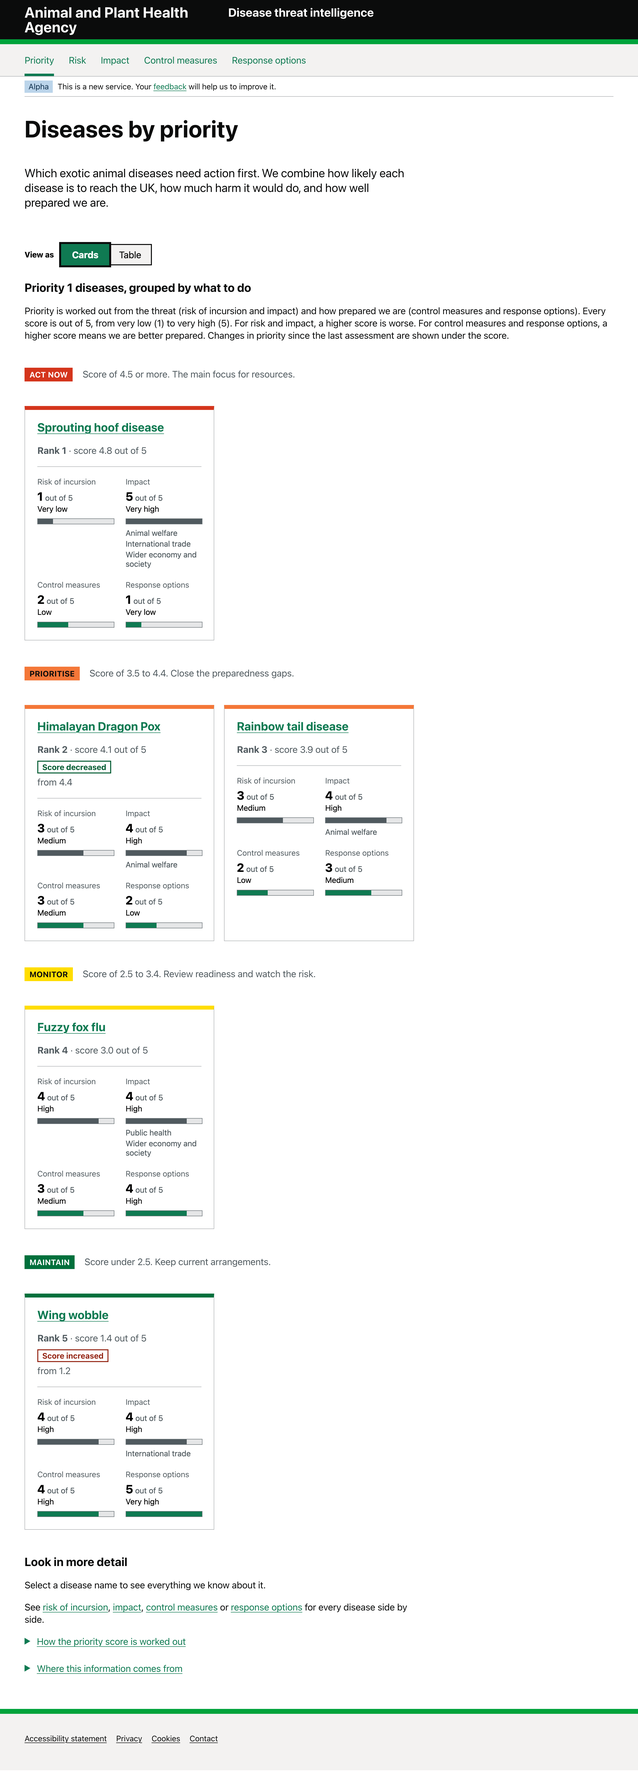
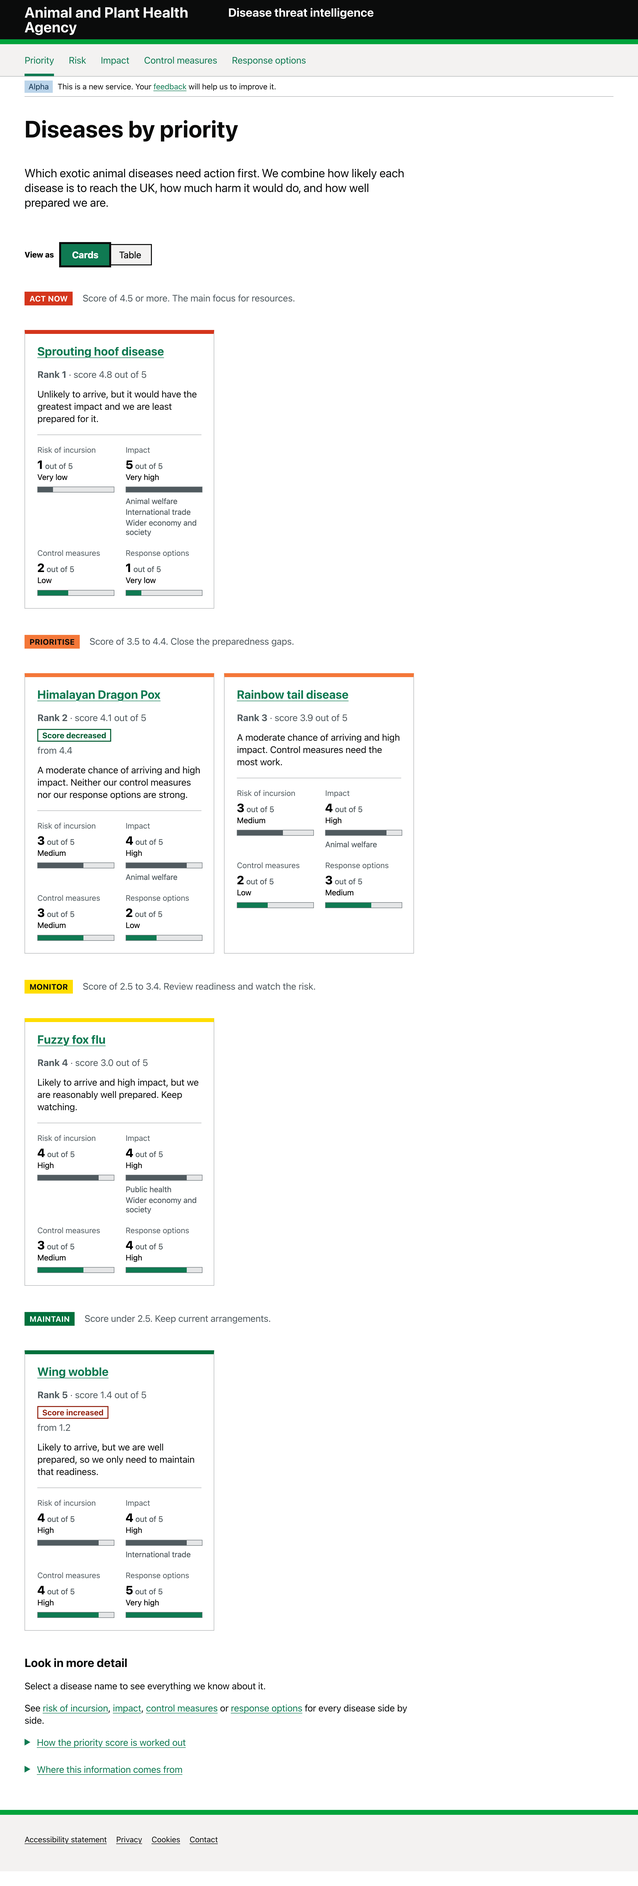
Reinstate card reasons; remove the scores explainer above the list
Only the broad top-of-page summary stays removed. Removes the paragraph that repeated the band key, and updates the design notes, test plan and options page.

Changed region(s): [[0.0, 0.0, 1.0, 0.9677]]

diff --git a/app/views/docs/priority-view-test-plan.html b/app/views/docs/priority-view-test-plan.html
@@ -28,8 +28,8 @@
     </ol>
     <p class="govuk-body">The second job is the main one. Spend roughly a third of each session on it.</p>
     <h2 class="govuk-heading-l">What we are testing</h2>
-    <p class="govuk-body">The page shows five fictional priority 1 diseases. Each disease shows priority (band, rank, score out of 5), then threat (risk of incursion, impact) and preparedness (control measures, response options), each scored out of 5 and labelled very low, low, medium, high or very high. There is no summary at the top and no written reason on each disease, so people read the answer from the bands, ranks and scores. Below are the band key, how the score works and where the information comes from. The source is deliberately not repeated at the top, so T6 tests whether people find it at the bottom.</p>
-    <p class="govuk-body"><strong>In scope:</strong> reading and comparing, the priority band and score, the four layers, sorting, source and trust.
+    <p class="govuk-body">The page shows five fictional priority 1 diseases. Each disease shows priority (band, rank, score out of 5), then threat (risk of incursion, impact) and preparedness (control measures, response options), each scored out of 5 and labelled very low, low, medium, high or very high. There is no summary at the top of the page. In the cards view each disease has a one-line reason. Below are the band key, how the score works and where the information comes from. The source is deliberately not repeated at the top, so T6 tests whether people find it at the bottom.</p>
+    <p class="govuk-body"><strong>In scope:</strong> reading and comparing, the priority band and score, the four layers, the reason on each card, sorting, source and trust.
     <strong>Out of scope:</strong> the disease page, the layer pages and how users route to them (the concept test). Clicks on those links land on a "This page is not part of the test" page. <strong>Record every one of them as a first click.</strong> They show where people expect to go next, which feeds the routing decision.
     <strong>Not being tested:</strong> whether the scores are right. All five scores are illustrative and out of 5, with no formula shown, so there is less to challenge. If SMEs question how a score is made, capture it, but don't debate it. See "Risks".</p>
     <p class="govuk-body"><strong>What has changed:</strong> the priority view shows change in <strong>priority only</strong>. Changes in risk, impact, control measures and response options belong on their own pages, which are not designed yet. The priority view shows change through an outlined tag ("Score increased", "Score decreased") with "from 4.4" under the score for diseases that changed. Unchanged diseases show nothing. There is no summary line, so nothing on the page says that no disease changed rank or band.</p>
@@ -38,9 +38,9 @@
     <h2 class="govuk-heading-l">Design options</h2>
     <p class="govuk-body">Three versions are designed as prototypes with the same data and wording. See <a class="govuk-link" href="/public/design/priority-view/options.html">priority view options</a>. An earlier matrix with diseases across the top was dropped: it isn't how people think about the problem and it pushed the content down.
     - <strong>A: ranked table</strong> (<a class="govuk-link" href="/public/design/priority-view/index.html">open option A</a>). Best for comparing one measure across diseases.
-    - <strong>B: grouped by action</strong> (<a class="govuk-link" href="/public/design/priority-view/option-b.html">open option B</a>). Best for "what do I do?", with the diseases grouped by band.
+    - <strong>B: grouped by action</strong> (<a class="govuk-link" href="/public/design/priority-view/option-b.html">open option B</a>). Best for "what do I do?", with a one-line reason for each disease.
     - <strong>C: table or cards</strong> (<a class="govuk-link" href="/public/design/priority-view/option-c.html">open option C</a>). One page with a "View as" switch between A and B. The choice is kept in the address (<code>?view=cards</code>), sorting is kept when switching, and it starts on cards on small screens.</p>
-    <p class="govuk-body">The page has no summary and no written reasons in all three. The table has one header row, a light tint on the sorted column, and links that don't change colour once visited. Test the group labels in the "What we watch for" section.</p>
+    <p class="govuk-body">The page has no summary at the top in any of the three, and no paragraph explaining the scores above the list. The table has one header row, a light tint on the sorted column, and links that don't change colour once visited. Test the group labels in the "What we watch for" section.</p>
     <p class="govuk-body"><strong>How to run them (recommended): use C for everyone.</strong> It contains A and B, so all 6 participants see both. Start half on the table and half on cards. Watch whether they switch, when and why, then ask which they prefer. The cost is that C can't isolate A against B, because the first view colours what people do next. If the team needs a clean comparison, run A and B as separate pages, alternating across participants, and show the other for about 2 minutes at the end. Treat the preference answers as evidence, not a vote.
     <strong>Extra things to watch:</strong> in C, which view do they land on, do they find the switch without help, and do they switch for a reason (comparing a measure, briefing someone)? If one view is rarely used, drop the other. In B, do people open a card or just read the band? In A, is sorting found, and does the tint help them see which column is sorted? Sorting only applies to the table.
     <strong>Width:</strong> A uses a 1,200px container because six columns need about 1,000px. B uses the standard 960px. Test on a laptop first. A scrolls sideways below about 1,050px.</p>
@@ -197,7 +197,7 @@
     <tr class="govuk-table__row">
     <td class="govuk-table__cell">T7</td>
     <td class="govuk-table__cell">"You've got two minutes with your director. What would you say?"</td>
-    <td class="govuk-table__cell">A short, correct summary in their own words, built from the bands, ranks and scores. Record what they leave out and whether they look for a written summary</td>
+    <td class="govuk-table__cell">A short, correct summary. Reuses the card reasons, or builds their own from the bands, ranks and scores. Record which, and whether they look for a summary at the top</td>
     <td class="govuk-table__cell">RQ1, UN8</td>
     </tr>
     <tr class="govuk-table__row">
@@ -273,7 +273,7 @@
     - "What does a score of 4.1 out of 5 mean?" Do they open "How the priority score is worked out"? Do they find it helpful or too much?
     - "What is the difference between 'control measures' and 'response options'?"
     - "Is anything missing that you'd need before you trusted the order?"
-    - "Would a short written summary help you? What would it need to say for your role?" (Ask last, so it doesn't prompt them earlier.)</p>
+    - "Would a short summary at the top of the page help you? What would it need to say for your role?" (Ask last, so it doesn't prompt them earlier.)</p>
     <h2 class="govuk-heading-l">Discovery: understanding what people want from risk</h2>
     <p class="govuk-body">Use these after the tasks. Probe with "why?" and "how would you use that?".</p>
     <ol class="govuk-list govuk-list--number">
@@ -314,9 +314,9 @@
     | H1 | One ranked table answers "which disease first?" faster than the current way of working | T1 in under a minute without help |
     | H2 | Band label plus rank plus score is clear without colour | Correct answers from users who don't mention colour |
     | H3 | Risk and impact are read as separate things | T4 is answered from the impact column, not the risk column |
-    | H4 | People can build their own short summary from the bands, ranks and scores, so the page needs no written summary | T7 is answered correctly and quickly, and nobody asks for a summary |
+    | H4 | A one-line reason on each card is enough, so the page needs no summary at the top | T7 is answered correctly and quickly, and nobody asks for a summary at the top |
     | H5 | A source in the details at the bottom is enough for trust | T6 found without help, and users don't ask for more |
-    | H6 | The preparedness scale (high is good) causes confusion beside risk (high is bad) | Errors or hesitation on the probe |
+    | H6 | The preparedness scale (high is good) causes confusion beside risk (high is bad). The paragraph that explained this above the list was removed | Errors or hesitation on the probe |
     | H7 | Users want more than a snapshot, especially change over time | The card sort puts change, reasons and history in "must have" |
     | H10 | A text tag with "from 4.4" under the score shows a change in priority clearly, without arrows or colour alone | T11 answered quickly and correctly. Nobody asks what the tag means |
     | H11 | A change in score can look more important than it is. A tag alone could over-state it | T12: people say it is still Prioritise, rather than asking for action |
@@ -482,7 +482,7 @@
     <h2 class="govuk-heading-l">Open decisions for the team</h2>
     <ol class="govuk-list govuk-list--number">
     <li><strong>Brand mode.</strong> The prototype uses Defra mode (system font, green links, text header) rather than GOV.UK mode (GDS Transport, crown header). The brief says GOV.UK only and the page title pattern ends "– GOV.UK". Which do we want in front of users?</li>
-    <li><strong>Does anyone need a written summary?</strong> We removed the summary and the one-line reasons because one summary can't be both short and right for everyone. Listen for who asks for one, what role they have and what they would want it to say. If they do, it may need to be per role.</li>
+    <li><strong>Does anyone also need a summary at the top of the page?</strong> We removed it because it had to cover every section, so it was too long, and one summary can't be both short and right for everyone. The card reasons stay. Listen for who asks for a top summary, what role they have and what they would want it to say. If they do, it may need to be per role. Also ask who would write the card reasons, and how often. The prototype shows them as written copy.</li>
     <li><strong>"Preparedness" or "vulnerability".</strong> The board says "vulnerability (preparedness)". The prototype says "Preparedness". Do we test both?</li>
     <li><strong>Change is shown for priority only</strong>, as tags under the score (changed diseases only). Do we also show "No change" on every row? Showing only changes keeps the table calmer. The risk is that people can't tell "no change" from "not assessed". Risk, impact, control measures and response options changes, with reasons, belong on their own pages. Those pages aren't designed yet, so T12 will show where people expect to find the cause.</li>
     <li><strong>Real or fictional disease names.</strong> The prototype uses fictional names, as the brief decided. SMEs may find it harder to judge plausibility.</li>

diff --git a/app/assets/design/priority-view/option-c.html b/app/assets/design/priority-view/option-c.html
@@ -70,12 +70,11 @@
 
     <!-- ===== Table view ===== -->
     <div id="view-table">
-      <p class="app-view-label">Option C, table view</p>      <h2 class="govuk-heading-m" id="table-heading">Priority 1 diseases, ranked 1 to 5</h2>
-      <p class="govuk-body" id="table-desc">Priority is worked out from the threat (risk of incursion and impact) and how prepared we are (control measures and response options). Every score is out of 5, from very low (1) to very high (5). For risk and impact, a higher score is worse. For control measures and response options, a higher score means we are better prepared. Changes in priority since the last assessment are shown under the score.</p>
+      <p class="app-view-label">Option C, table view</p>      <h2 class="govuk-visually-hidden" id="table-heading">Priority 1 diseases, ranked 1 to 5</h2>
       <p class="govuk-hint app-sort-note">Sorting is not available on small screens. Diseases are shown in priority order.</p>
 
       <div class="app-scroll" tabindex="0" role="region" aria-label="Priority table, scrolls sideways on narrow screens">
-      <table class="govuk-table app-table app-table--rows" id="priority-table" aria-labelledby="table-heading" aria-describedby="table-desc">
+      <table class="govuk-table app-table app-table--rows" id="priority-table" aria-labelledby="table-heading">
         <thead class="govuk-table__head">
           <tr class="govuk-table__row">
             <th scope="col" class="govuk-table__header" aria-sort="none" data-key="disease" data-first="ascending"><a class="govuk-link" href="?sort=disease&amp;order=ascending">Disease</a></th>
@@ -165,8 +164,7 @@
 
     <!-- ===== Cards view ===== -->
     <div id="view-cards" hidden>
-      <p class="app-view-label">Option C, cards view</p>      <h2 class="govuk-heading-m" id="cards-heading">Priority 1 diseases, grouped by what to do</h2>
-      <p class="govuk-body" id="cards-desc">Priority is worked out from the threat (risk of incursion and impact) and how prepared we are (control measures and response options). Every score is out of 5, from very low (1) to very high (5). For risk and impact, a higher score is worse. For control measures and response options, a higher score means we are better prepared. Changes in priority since the last assessment are shown under the score.</p>
+      <p class="app-view-label">Option C, cards view</p>      <h2 class="govuk-visually-hidden" id="cards-heading">Priority 1 diseases, grouped by what to do</h2>
 
       <section class="app-band-section" aria-labelledby="band-act">
         <div class="app-band-section__head">
@@ -177,6 +175,7 @@
           <li class="app-card app-card--act">
             <h4 class="govuk-heading-m"><a class="govuk-link" href="not-in-test.html?page=disease&amp;disease=sprouting-hoof-disease">Sprouting hoof disease</a></h4>
             <p class="govuk-body app-card__meta"><span class="app-rank">Rank 1</span> · score 4.8 out of 5</p>
+            <p class="govuk-body app-card__why">Unlikely to arrive, but it would have the greatest impact and we are least prepared for it.</p>
             <dl>
               <div><dt class="govuk-body-s">Risk of incursion</dt><dd><span class="app-score">1<small> out of 5</small></span><span class="app-bar app-bar--threat" aria-hidden="true"><span style="width:20%"></span></span></dd></div>
               <div><dt class="govuk-body-s">Impact</dt><dd><span class="app-score">5<small> out of 5</small></span><span class="app-bar app-bar--threat" aria-hidden="true"><span style="width:100%"></span></span><ul class="app-areas"><li>Animal welfare</li><li>International trade</li><li>Wider economy and society</li></ul></dd></div>
@@ -196,6 +195,7 @@
           <li class="app-card app-card--prioritise">
             <h4 class="govuk-heading-m"><a class="govuk-link" href="not-in-test.html?page=disease&amp;disease=himalayan-dragon-pox">Himalayan Dragon Pox</a></h4>
             <p class="govuk-body app-card__meta"><span class="app-rank">Rank 2</span> · score 4.1 out of 5<span class="app-change"><strong class="app-change__tag app-change__tag--down">Score decreased</strong><span class="app-change__from">from 4.4</span></span></p>
+            <p class="govuk-body app-card__why">A moderate chance of arriving and high impact. Neither our control measures nor our response options are strong.</p>
             <dl>
               <div><dt class="govuk-body-s">Risk of incursion</dt><dd><span class="app-score">3<small> out of 5</small></span><span class="app-bar app-bar--threat" aria-hidden="true"><span style="width:60%"></span></span></dd></div>
               <div><dt class="govuk-body-s">Impact</dt><dd><span class="app-score">4<small> out of 5</small></span><span class="app-bar app-bar--threat" aria-hidden="true"><span style="width:80%"></span></span><ul class="app-areas"><li>Animal welfare</li></ul></dd></div>
@@ -206,6 +206,7 @@
           <li class="app-card app-card--prioritise">
             <h4 class="govuk-heading-m"><a class="govuk-link" href="not-in-test.html?page=disease&amp;disease=rainbow-tail-disease">Rainbow tail disease</a></h4>
             <p class="govuk-body app-card__meta"><span class="app-rank">Rank 3</span> · score 3.9 out of 5</p>
+            <p class="govuk-body app-card__why">A moderate chance of arriving and high impact. Control measures need the most work.</p>
             <dl>
               <div><dt class="govuk-body-s">Risk of incursion</dt><dd><span class="app-score">3<small> out of 5</small></span><span class="app-bar app-bar--threat" aria-hidden="true"><span style="width:60%"></span></span></dd></div>
               <div><dt class="govuk-body-s">Impact</dt><dd><span class="app-score">4<small> out of 5</small></span><span class="app-bar app-bar--threat" aria-hidden="true"><span style="width:80%"></span></span><ul class="app-areas"><li>Animal welfare</li></ul></dd></div>
@@ -225,6 +226,7 @@
           <li class="app-card app-card--monitor">
             <h4 class="govuk-heading-m"><a class="govuk-link" href="not-in-test.html?page=disease&amp;disease=fuzzy-fox-flu">Fuzzy fox flu</a></h4>
             <p class="govuk-body app-card__meta"><span class="app-rank">Rank 4</span> · score 3.0 out of 5</p>
+            <p class="govuk-body app-card__why">Likely to arrive and high impact, but we are reasonably well prepared. Keep watching.</p>
             <dl>
               <div><dt class="govuk-body-s">Risk of incursion</dt><dd><span class="app-score">4<small> out of 5</small></span><span class="app-bar app-bar--threat" aria-hidden="true"><span style="width:80%"></span></span></dd></div>
               <div><dt class="govuk-body-s">Impact</dt><dd><span class="app-score">4<small> out of 5</small></span><span class="app-bar app-bar--threat" aria-hidden="true"><span style="width:80%"></span></span><ul class="app-areas"><li>Public health</li><li>Wider economy and society</li></ul></dd></div>
@@ -244,6 +246,7 @@
           <li class="app-card app-card--maintain">
             <h4 class="govuk-heading-m"><a class="govuk-link" href="not-in-test.html?page=disease&amp;disease=wing-wobble">Wing wobble</a></h4>
             <p class="govuk-body app-card__meta"><span class="app-rank">Rank 5</span> · score 1.4 out of 5<span class="app-change"><strong class="app-change__tag app-change__tag--up">Score increased</strong><span class="app-change__from">from 1.2</span></span></p>
+            <p class="govuk-body app-card__why">Likely to arrive, but we are well prepared, so we only need to maintain that readiness.</p>
             <dl>
               <div><dt class="govuk-body-s">Risk of incursion</dt><dd><span class="app-score">4<small> out of 5</small></span><span class="app-bar app-bar--threat" aria-hidden="true"><span style="width:80%"></span></span></dd></div>
               <div><dt class="govuk-body-s">Impact</dt><dd><span class="app-score">4<small> out of 5</small></span><span class="app-bar app-bar--threat" aria-hidden="true"><span style="width:80%"></span></span><ul class="app-areas"><li>International trade</li></ul></dd></div>

diff --git a/app/assets/design/priority-view/option-b.html b/app/assets/design/priority-view/option-b.html
@@ -55,7 +55,6 @@
       <div class="govuk-grid-column-two-thirds">
         <h1 class="govuk-heading-xl">Diseases by priority</h1>
         <p class="govuk-body-l">Which exotic animal diseases need action first. We combine how likely each disease is to reach the UK, how much harm it would do, and how well prepared we are.</p>
-        <p class="govuk-body app-scope">Every score is out of 5, from very low (1) to very high (5). For risk and impact, a higher score is worse. For control measures and response options, a higher score means we are better prepared.</p>
 
       </div>
     </div>
@@ -69,6 +68,7 @@
         <li class="app-card app-card--act">
           <h3 class="govuk-heading-m"><a class="govuk-link" href="not-in-test.html?page=disease&amp;disease=sprouting-hoof-disease">Sprouting hoof disease</a></h3>
           <p class="govuk-body app-card__meta"><span class="app-rank">Rank 1</span> · score 4.8 out of 5</p>
+          <p class="govuk-body app-card__why">Unlikely to arrive, but it would have the greatest impact and we are least prepared for it.</p>
           <dl>
             <div><dt class="govuk-body-s">Risk of incursion</dt><dd><span class="app-score">1<small> out of 5</small></span><span class="app-bar app-bar--threat" aria-hidden="true"><span style="width:20%"></span></span></dd></div>
             <div><dt class="govuk-body-s">Impact</dt><dd><span class="app-score">5<small> out of 5</small></span><span class="app-bar app-bar--threat" aria-hidden="true"><span style="width:100%"></span></span><ul class="app-areas"><li>Animal welfare</li><li>International trade</li><li>Wider economy and society</li></ul></dd></div>
@@ -88,6 +88,7 @@
         <li class="app-card app-card--prioritise">
           <h3 class="govuk-heading-m"><a class="govuk-link" href="not-in-test.html?page=disease&amp;disease=himalayan-dragon-pox">Himalayan Dragon Pox</a></h3>
           <p class="govuk-body app-card__meta"><span class="app-rank">Rank 2</span> · score 4.1 out of 5<span class="app-change"><strong class="app-change__tag app-change__tag--down">Score decreased</strong><span class="app-change__from">from 4.4</span></span></p>
+          <p class="govuk-body app-card__why">A moderate chance of arriving and high impact. Neither our control measures nor our response options are strong.</p>
           <dl>
             <div><dt class="govuk-body-s">Risk of incursion</dt><dd><span class="app-score">3<small> out of 5</small></span><span class="app-bar app-bar--threat" aria-hidden="true"><span style="width:60%"></span></span></dd></div>
             <div><dt class="govuk-body-s">Impact</dt><dd><span class="app-score">4<small> out of 5</small></span><span class="app-bar app-bar--threat" aria-hidden="true"><span style="width:80%"></span></span><ul class="app-areas"><li>Animal welfare</li></ul></dd></div>
@@ -98,6 +99,7 @@
         <li class="app-card app-card--prioritise">
           <h3 class="govuk-heading-m"><a class="govuk-link" href="not-in-test.html?page=disease&amp;disease=rainbow-tail-disease">Rainbow tail disease</a></h3>
           <p class="govuk-body app-card__meta"><span class="app-rank">Rank 3</span> · score 3.9 out of 5</p>
+          <p class="govuk-body app-card__why">A moderate chance of arriving and high impact. Control measures need the most work.</p>
           <dl>
             <div><dt class="govuk-body-s">Risk of incursion</dt><dd><span class="app-score">3<small> out of 5</small></span><span class="app-bar app-bar--threat" aria-hidden="true"><span style="width:60%"></span></span></dd></div>
             <div><dt class="govuk-body-s">Impact</dt><dd><span class="app-score">4<small> out of 5</small></span><span class="app-bar app-bar--threat" aria-hidden="true"><span style="width:80%"></span></span><ul class="app-areas"><li>Animal welfare</li></ul></dd></div>
@@ -117,6 +119,7 @@
         <li class="app-card app-card--monitor">
           <h3 class="govuk-heading-m"><a class="govuk-link" href="not-in-test.html?page=disease&amp;disease=fuzzy-fox-flu">Fuzzy fox flu</a></h3>
           <p class="govuk-body app-card__meta"><span class="app-rank">Rank 4</span> · score 3.0 out of 5</p>
+          <p class="govuk-body app-card__why">Likely to arrive and high impact, but we are reasonably well prepared. Keep watching.</p>
           <dl>
             <div><dt class="govuk-body-s">Risk of incursion</dt><dd><span class="app-score">4<small> out of 5</small></span><span class="app-bar app-bar--threat" aria-hidden="true"><span style="width:80%"></span></span></dd></div>
             <div><dt class="govuk-body-s">Impact</dt><dd><span class="app-score">4<small> out of 5</small></span><span class="app-bar app-bar--threat" aria-hidden="true"><span style="width:80%"></span></span><ul class="app-areas"><li>Public health</li><li>Wider economy and society</li></ul></dd></div>
@@ -136,6 +139,7 @@
         <li class="app-card app-card--maintain">
           <h3 class="govuk-heading-m"><a class="govuk-link" href="not-in-test.html?page=disease&amp;disease=wing-wobble">Wing wobble</a></h3>
           <p class="govuk-body app-card__meta"><span class="app-rank">Rank 5</span> · score 1.4 out of 5<span class="app-change"><strong class="app-change__tag app-change__tag--up">Score increased</strong><span class="app-change__from">from 1.2</span></span></p>
+          <p class="govuk-body app-card__why">Likely to arrive, but we are well prepared, so we only need to maintain that readiness.</p>
           <dl>
             <div><dt class="govuk-body-s">Risk of incursion</dt><dd><span class="app-score">4<small> out of 5</small></span><span class="app-bar app-bar--threat" aria-hidden="true"><span style="width:80%"></span></span></dd></div>
             <div><dt class="govuk-body-s">Impact</dt><dd><span class="app-score">4<small> out of 5</small></span><span class="app-bar app-bar--threat" aria-hidden="true"><span style="width:80%"></span></span><ul class="app-areas"><li>International trade</li></ul></dd></div>

diff --git a/app/views/design-notes.html b/app/views/design-notes.html
@@ -195,8 +195,13 @@
       </thead>
       <tbody class="govuk-table__body">
         <tr class="govuk-table__row">
-          <th scope="row" class="govuk-table__header">Do not show a summary at the top, or a written reason on each card</th>
-          <td class="govuk-table__cell">We first had both: a plain-language summary above the list, including a &quot;What has changed&quot; line, and a one-line reason on each card. We removed them (11 November). One summary cannot be short and also right for everyone, because people with different roles want different things from it. A summary on the cards as well repeated the same information. The bands, ranks, scores and change tags now carry the answer, and the test asks people what they would want a summary to say, and for whom</td>
+          <th scope="row" class="govuk-table__header">Do not show a summary at the top of the page. Keep a one-line reason on each card</th>
+          <td class="govuk-table__cell">We first had a plain-language summary above the list (with a &quot;What has changed&quot; line) as well as a reason on each card. We removed the top summary on 11 November. It had to cover every section at once, so it was too long, and one summary can't be short and right for everyone, because people in different roles want different things from it. The reason on each card stays. It is about one disease, it sits next to the scores it explains, and it is short enough to read in place. The test asks whether anyone also wants a summary at the top, and what it would say for their role</td>
+          <td class="govuk-table__cell"><strong class="govuk-tag govuk-tag--green">Decided</strong></td>
+        </tr>
+        <tr class="govuk-table__row">
+          <th scope="row" class="govuk-table__header">Do not explain the scores in a paragraph above the list</th>
+          <td class="govuk-table__cell">The paragraph under the list heading repeated the priority band key (&quot;Act now: score of 4.5 or more…&quot;) and the details panel on how the score is worked out. We removed it on 11 November, with the visible heading, so the list starts straight after the view switch. The heading is still there for screen readers. The band key, the very low to very high words beside each score, and the details panel now carry the explanation. One thing to watch: the paragraph also said a high risk or impact is bad and a high control measures or response options score is good. The test checks whether people still get that (H6)</td>
           <td class="govuk-table__cell"><strong class="govuk-tag govuk-tag--green">Decided</strong></td>
         </tr>
         <tr class="govuk-table__row">
@@ -392,7 +397,7 @@
     <h2 class="govuk-heading-l" id="open-questions">Open questions</h2>
     <ul class="govuk-list govuk-list--bullet">
       <li><strong>Brand.</strong> The prototype uses a Defra look: system font, green links, and a black header with a green stripe. The brief says GOV.UK only. Which do we put in front of users?</li>
-      <li><strong>Does anyone need a written summary?</strong> We removed it because one summary cannot be short and right for everyone. If people ask for one, who needs it, what should it say, and does it need to differ by role? Who would write it, and how often?</li>
+      <li><strong>Who writes the reason on each card,</strong> and how often? The prototype shows it as written copy. Does anyone also need a summary at the top of the page, what should it say, and does it need to differ by role?</li>
       <li><strong>&quot;Preparedness&quot; or &quot;vulnerability&quot;?</strong> The scoring framework uses &quot;vulnerability&quot;. The prototype says &quot;Preparedness&quot;. Do we test both?</li>
       <li><strong>Do we show &quot;No change&quot;</strong> on every row? Showing only changes keeps the table calmer, but people may not tell &quot;no change&quot; from &quot;not assessed&quot;.</li>
       <li><strong>Real or fictional disease names</strong> in the test? Fictional names avoid distraction, but experts may find it harder to judge whether the results are plausible.</li>

diff --git a/app/assets/design/priority-view/options.html b/app/assets/design/priority-view/options.html
@@ -45,17 +45,17 @@
       <div>
         <h2 class="govuk-heading-l">Option B: grouped by action</h2>
         <p class="govuk-body"><a class="govuk-link" href="option-b.html">Open option B</a></p>
-        <p class="govuk-body">Diseases are grouped under Act now, Prioritise, Monitor and Maintain. Each disease is a card with the four measures. No table, so the standard page width works.</p>
+        <p class="govuk-body">Diseases are grouped under Act now, Prioritise, Monitor and Maintain. Each disease is a card with a one-line reason, then the four measures. No table, so the standard page width works.</p>
         <h3 class="govuk-heading-s">Best for</h3>
         <ul class="govuk-list govuk-list--bullet">
           <li>Answering "what do I do?" without reading numbers</li>
-          <li>People briefing others, who want the ranking grouped by what to do</li>
+          <li>People briefing others, who want the reason in words</li>
           <li>Small screens, where it reads as a list</li>
         </ul>
         <h3 class="govuk-heading-s">Watch for</h3>
         <ul class="govuk-list govuk-list--bullet">
           <li>Hard to compare one measure across diseases</li>
-          <li>No written reason, so users must work out why a disease is in its band</li>
+          <li>Needs someone to write the one-line reasons</li>
           <li>Hides the ranking if bands are empty or uneven</li>
         </ul>
       </div>
@@ -235,7 +235,7 @@
       <div>
         <h2 class="govuk-heading-l">Decisions so far</h2>
         <ul class="govuk-list govuk-list--bullet">
-          <li><strong>There is no summary, and no written reason on each card.</strong> One summary can't be short and right for everyone. The bands, ranks, scores and change tags carry the answer.</li>
+          <li><strong>There is no summary at the top of the page.</strong> It had to cover every section, so it was too long. Each card keeps a one-line reason. There is also no paragraph explaining the scores above the list, because it repeated the band key.</li>
           <li><strong>Source is not repeated at the top.</strong> It is in "Where this information comes from" at the bottom.</li>
           <li><strong>One header row on the table.</strong> The Threat and Preparedness group headings were removed. A sentence above the table explains the grouping, and rules separate priority, threat and preparedness. Test whether people miss it.</li>
           <li><strong>The sorted column has a light tint.</strong> The arrow and the screen reader state say the same thing, so colour is not the only cue.</li>

diff --git a/app/assets/design/priority-view/index.html b/app/assets/design/priority-view/index.html
@@ -61,11 +61,10 @@
     <p class="govuk-visually-hidden" id="sort-status" role="status" aria-live="polite"></p>
     <p class="govuk-hint app-sort-note">Sorting is not available on small screens. Diseases are shown in priority order.</p>
 
-    <h2 class="govuk-heading-m" id="table-heading">Priority 1 diseases, ranked 1 to 5</h2>
-    <p class="govuk-body" id="table-desc">Priority is worked out from the threat (risk of incursion and impact) and how prepared we are (control measures and response options). Every score is out of 5, from very low (1) to very high (5). For risk and impact, a higher score is worse. For control measures and response options, a higher score means we are better prepared. Changes in priority since the last assessment are shown under the score.</p>
+    <h2 class="govuk-visually-hidden" id="table-heading">Priority 1 diseases, ranked 1 to 5</h2>
 
     <div class="app-scroll" tabindex="0" role="region" aria-label="Priority table, scrolls sideways on narrow screens">
-    <table class="govuk-table app-table app-table--rows" id="priority-table" aria-labelledby="table-heading" aria-describedby="table-desc" data-module="app-sortable-table">
+    <table class="govuk-table app-table app-table--rows" id="priority-table" aria-labelledby="table-heading" data-module="app-sortable-table">
       <thead class="govuk-table__head">
         <tr class="govuk-table__row">
           <th scope="col" class="govuk-table__header" aria-sort="none" data-key="disease" data-first="ascending"><a class="govuk-link" href="?sort=disease&amp;order=ascending">Disease</a></th>

diff --git a/app/assets/design/priority-view/priority.css b/app/assets/design/priority-view/priority.css
@@ -131,7 +131,8 @@ html.govuk-template, .govuk-template__body { background: #fff; }
 .app-card--monitor { border-top-color: #ffdd00; }
 .app-card--maintain { border-top-color: #00703c; }
 .app-card h3 { margin: 0 0 5px; }
-.app-card__meta { color: var(--secondary); margin: 0 0 20px; }
+.app-card__meta { color: var(--secondary); margin: 0 0 15px; }
+.app-card__why { margin: 0 0 20px; }
 .app-card dl { margin: 0; display: grid; grid-template-columns: 1fr 1fr; gap: 20px 25px; border-top: 1px solid var(--divider); padding-top: 20px; }
 .app-card dt { color: var(--secondary); margin-bottom: 8px; }
 .app-card dd { margin: 0; }
